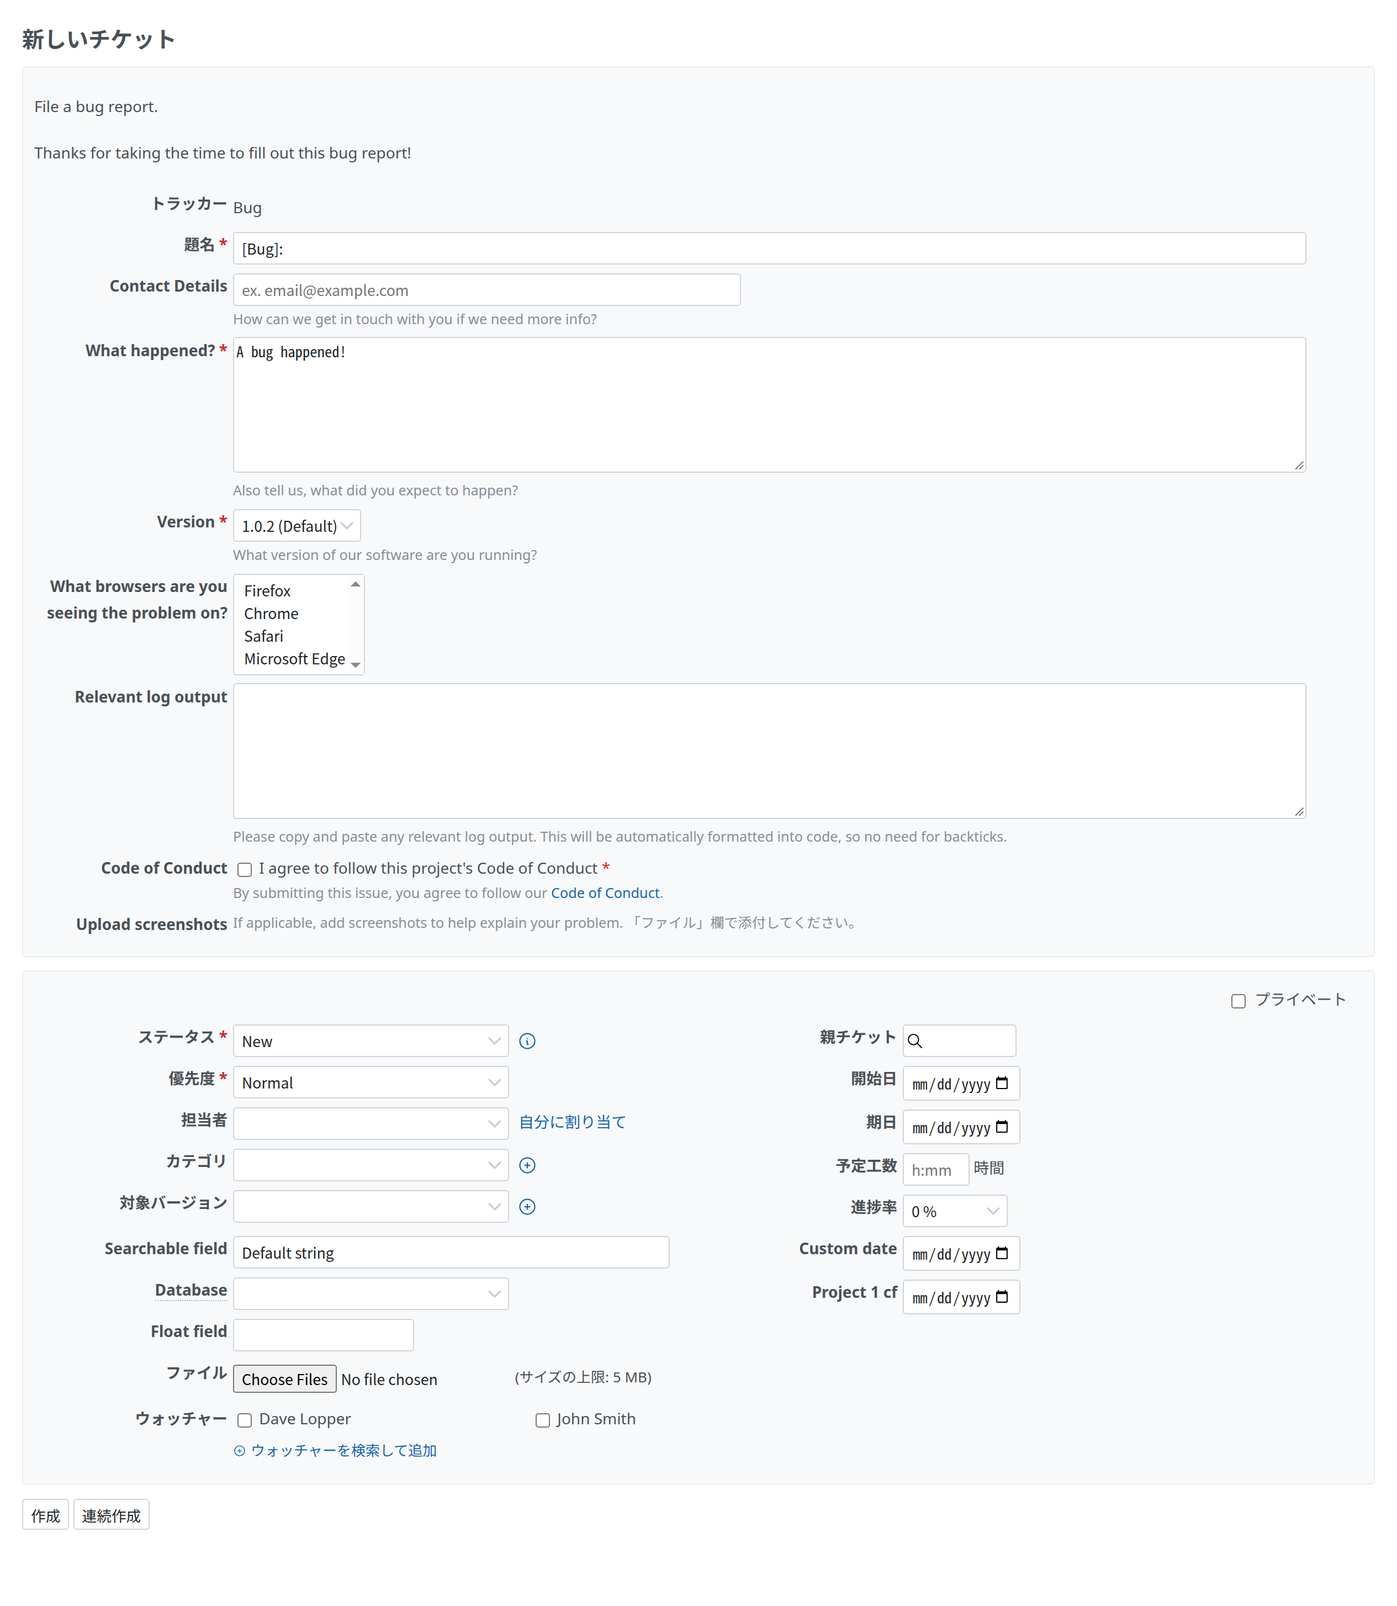
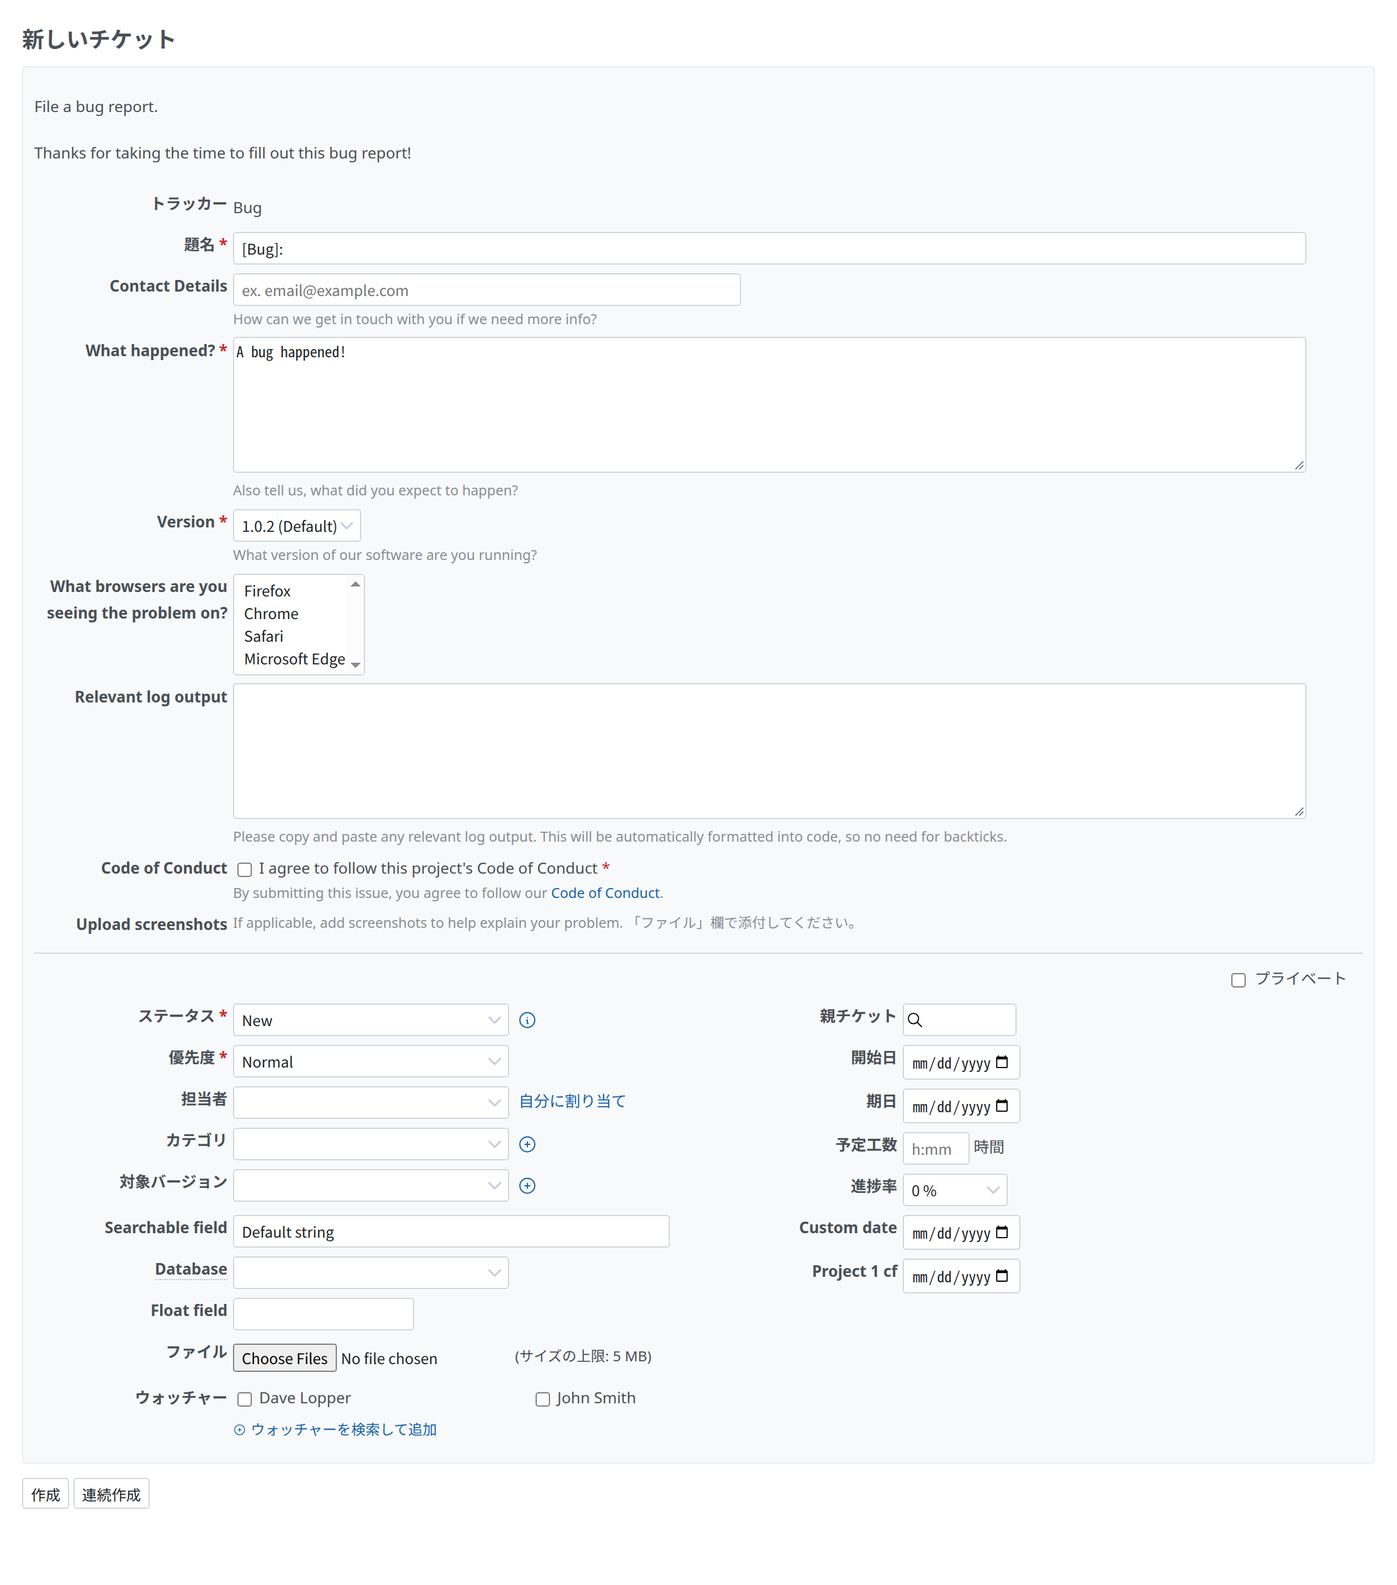
Render a YAML form's part inside Redmine's issue form

diff --git a/assets/stylesheets/issue_template.css b/assets/stylesheets/issue_template.css
@@ -1,5 +1,5 @@
-/* A form's subject is in the box above, so the attributes start below
-   Redmine's Private checkbox, floated at the top of the form. */
+/* A form's subject is in its part above Redmine's attributes, so the
+   attributes start below Redmine's Private checkbox, floated next to them. */
 #all_attributes #attributes {
   clear: both;
 }

diff --git a/test/functional/issues_controller_template_test.rb b/test/functional/issues_controller_template_test.rb
@@ -100,13 +100,13 @@ module RedmineIssueTemplate
     test 'an issue form shows its fields instead of the description' do
       get :new, params: { project_id: 'ecookbook', issue_template: 'bug_report' }
       assert_response :success
-      assert_select '.issue-template-fields p', text: /Tracker\s+Bug/
-      assert_select '#issue-form p', text: /Tracker/, count: 0
-      # The subject and the fields are in a box above Redmine's form, and
-      # belong to the form.
-      assert_select '#issue-form input#issue_subject', 0
-      assert_select '.issue-template-fields input#issue_subject[form=issue-form][value=?]', '[Bug]: '
-      assert_select '.issue-template-fields textarea[form=issue-form][name=?]', 'issue_template_answers[what-happened]'
+      # The form's part, at the top of Redmine's form: the tracker as text, the
+      # subject and the fields, once each.
+      assert_select '#issue-form .issue-template-fields p', text: /Tracker\s+Bug/
+      assert_select '#issue-form p', text: /Tracker\s+Bug/, count: 1
+      assert_select '#issue-form .issue-template-fields input#issue_subject[value=?]', '[Bug]: '
+      assert_select '#issue-form input#issue_subject', 1
+      assert_select '#issue-form .issue-template-fields textarea[name=?]', 'issue_template_answers[what-happened]'
       assert_select 'head link[rel=stylesheet][href^=?]', '/assets/plugin_assets/redmine_issue_template/issue_template-'
       assert_select 'textarea#issue_description', 0
       assert_select 'input[name=?]', 'issue_template_answers[contact]'
@@ -153,9 +153,9 @@ module RedmineIssueTemplate
                            form_update_triggered_by: 'issue_tracker_id', issue: { tracker_id: '3', subject: 'x' },
                            issue_template_answers: { 'contact' => 'me@example.com' } }, xhr: true
       assert_response :success
-      # The form's fields are outside the part Redmine updates.
-      assert_not_include 'issue_template_answers[contact]', response.body
-      assert_not_include 'issue[subject]', response.body
+      # The form's part is rendered again with what was typed.
+      assert_include 'issue_template_answers[contact]', response.body
+      assert_include 'me@example.com', response.body
     end
 
     test 'the project stays the one the template was chosen in' do
@@ -185,12 +185,11 @@ module RedmineIssueTemplate
       import('question.yml' => QUESTION)
       get :new, params: { project_id: 'ecookbook', issue_template: 'question' }
       assert_response :success
-      tracker = '.issue-template-fields select#issue_template_tracker_id[form=issue-form][onchange*=updateIssueFrom]'
-      assert_select tracker do
+      assert_select '.issue-template-fields select#issue_tracker_id[onchange*=updateIssueFrom]' do
         assert_select 'option', Issue.new(project: @project).allowed_target_trackers(User.find(2)).count
         assert_select 'option[selected=selected][value="1"]'
       end
-      assert_select '#issue-form select#issue_tracker_id', 0
+      assert_select '#issue-form select#issue_tracker_id', 1
 
       post :create, params: { project_id: 'ecookbook', issue_template: 'question',
                               issue: { tracker_id: '3', subject: 'How?' }, issue_template_answers: { 'what' => 'x' } }
@@ -298,7 +297,7 @@ module RedmineIssueTemplate
       import('question.yml' => QUESTION)
       Tracker.find(3).update!(private_by_default: true)
       post :new, params: { project_id: 'ecookbook', issue_template: 'question',
-                           form_update_triggered_by: 'issue_template_tracker_id',
+                           form_update_triggered_by: 'issue_tracker_id',
                            issue: { tracker_id: '3', is_private: '0', subject: 'x' } }, xhr: true
       assert_response :success
       assert @controller.instance_variable_get(:@issue).is_private?

diff --git a/lib/redmine_issue_template/issues_controller_patch.rb b/lib/redmine_issue_template/issues_controller_patch.rb
@@ -29,11 +29,6 @@ module RedmineIssueTemplate
     end
 
     def build_new_issue_from_params
-      # The box's tracker field is Redmine's tracker field (the private
-      # default of the chosen tracker applies).
-      if params[:form_update_triggered_by] == 'issue_template_tracker_id'
-        params[:form_update_triggered_by] = 'issue_tracker_id'
-      end
       template = current_issue_template
       if template
         issue_template_defaults_into_params(template) if request.get?

diff --git a/docs/ja/design.md b/docs/ja/design.md
@@ -99,7 +99,7 @@ Redmine は、説明をテキスト書式の設定で表示します。テンプ
 画面は Redmine 本体の画面に倣います([Redmine Design Guide](https://redmine-kit.github.io/design-guide/ja/))。
 
 - **テンプレート選択画面**(`/projects/<id>/issues/templates`): プロジェクトにテンプレートがあると、「新しいチケット」で開きます。Redmine の一覧と同じ表(`table.list`)に、テンプレートの名前(入力画面へのリンク)、説明、トラッカーを並べます。「空白のチケット」は、`blank_issues_enabled` が false でなければ、またテンプレートを管理できるユーザーには常に、アクションのリンクで出します。`contact_links` は「その他の連絡先」として 2 つ目の一覧にします。「新しいチケット」に付いてきたパラメーター(親チケットなど)は引き継ぎます。
-- **チケットの入力画面**: Redmine の入力画面に、テンプレートの値を入れたものです。YAML フォームの説明、トラッカー、題名、入力欄は、Redmine の入力画面の上のボックスに、入力画面の表の形で出します。隠す入力欄と、つないだ入力欄が値を入れる項目は Redmine のボックスに出さず、必須の入力欄には Redmine と同じ印を付けます。
+- **チケットの入力画面**: Redmine の入力画面に、テンプレートの値を入れたものです。YAML フォームの説明、トラッカー、題名、入力欄は、Redmine の入力画面の一番上(フック `view_issues_form_details_top`。フォームと一緒に描き直される)に、入力画面の表の形で、線で区切って出します。隠す入力欄と、つないだ入力欄が値を入れる項目はチケットの属性に出さず、必須の入力欄には Redmine と同じ印を付けます。
 - **プロジェクトの設定 › チケットテンプレート**: アクションのリンク「新しいテンプレート」(リポジトリにテンプレートがないとき)、「インポート」、「ヘルプ」(このドキュメントの形式のページ)。テンプレートの取得元、最後に取り込んだリビジョンと日時を、管理 › 情報 と同じ名前と値の表で出します。ファイルの一覧には正常かエラーかのアイコンを付け、リポジトリにテンプレートがなければここで編集、削除します。エラーのあるファイルがあれば、使用できないことだけを表示します。「テンプレートの選択画面」に config.yml の設定(空白のチケット、その他の連絡先)を出し、テンプレートを Redmine で編集しているときは保存すると config.yml にし、そうでなければ変更できない表示にします。エラーと警告の中身は各ファイルの画面に、ファイル、キー、Redmine の検証のメッセージで出します。
 - **テンプレートファイル**: 一覧のファイル名から、ファイルのページを開きます。取得元(管理 › 情報 と同じ形)と、ボックスの中のテキストを出します。「編集」と「削除」は、プロジェクトの設定のファイルにだけ出します。編集のフォームはテキストのエディター(`.box.tabular`、Wiki のページと同じテキストエリア)で、「保存」「プレビュー」「キャンセル」があります。
 - **プレビュー**: 凡例「プレビュー」のボックスの中に(チケットの編集画面が入力欄をまとめるのと同じ形)、選択画面でのテンプレートの行と、テンプレートを当てた Redmine の新しいチケットの入力画面(値、隠す入力欄、必須の入力欄、YAML フォームの入力欄)を、操作できない形(`inert`)で出します。編集のフォームの「プレビュー」は、同じ入力チェックのあと、保存せずに出します。リポジトリのファイルのページには常に出します。`config.yml` のプレビューは、すべてのテンプレートを並べた選択画面です。テンプレートのプレビューは Redmine にない画面なので、チケットの入力画面と一覧をそのまま使います。

diff --git a/docs/design.md b/docs/design.md
@@ -84,7 +84,7 @@ A file with errors is marked in the settings, with its errors on its page, and l
 The screens follow Redmine's own screens ([Redmine Design Guide](https://redmine-kit.github.io/design-guide/)).
 
 - **Template chooser** (`/projects/<id>/issues/templates`): "New issue" opens it when the project has templates. A list like Redmine's lists (`table.list`): the template's name (a link to the form), its description and its tracker. "Blank issue" is an action link, shown when `blank_issues_enabled` is not false, and always to users who can manage the templates. Contact links follow as a second list, "Other contacts". Parameters that came with "New issue" (for example a parent issue) are kept.
-- **Issue form**: Redmine's own form, with the template's values. A YAML form's description, tracker, subject and fields are in a box above Redmine's form, in the form's tabular layout. Hidden fields, and the fields set by linked fields, are left out of Redmine's box, and required ones are marked as Redmine marks them.
+- **Issue form**: Redmine's own form, with the template's values. A YAML form's description, tracker, subject and fields are at the top of Redmine's form (the hook `view_issues_form_details_top`, rendered again with the form), in its tabular layout, above a line. Hidden fields, and the fields set by linked fields, are left out of the issue's attributes, and required ones are marked as Redmine marks them.
 - **Project settings › Issue templates**: the action links "New template" (without templates in the repository), "Import" and "Help" (the format reference in these docs); where the templates come from, the revision and the time of the last import, as names and values like Administration › Information; the files with an ok or error icon, edited and deleted here when the repository has none; when some files have errors, a notice that they cannot be used; and the settings of config.yml under "Template chooser" (blank issues, other contacts), saved as config.yml when the templates are edited in Redmine and shown read-only otherwise. Each file's page shows its errors and warnings, each as the file, the key and Redmine's validation message.
 - **A template file**: the file name links to its page, with where it came from (as on Administration › Information) and its text in a box. "Edit" and "Delete" are there only for files of the project settings. The edit form is a plain text editor (`.box.tabular`, a textarea as on a wiki page) with "Save", "Preview" and "Cancel".
 - **Preview**: in a box with the legend "Preview" (as the issue edit page groups its fields), the template's row in the chooser and Redmine's New issue form as the template makes it (values, hidden and required fields, a YAML form's fields), shown but not usable (`inert`). "Preview" on the edit form shows it without saving, after the same input check; the page of a file from a repository always shows it. For `config.yml`, the preview is the chooser with all the templates. Core has no pattern for previewing a template, so this follows the issue form and the lists as they are.

diff --git a/AGENTS.md b/AGENTS.md
@@ -16,7 +16,7 @@ Redmine Issue Template (`redmine_issue_template`) is a Redmine plugin for issue 
 | `lib/redmine_issue_template/importer.rb`, `repository_source.rb`, `repository_patch.rb` | Importing and storing files (the entry point for redmine_github) |
 | `lib/redmine_issue_template/issue_patch.rb` (`issue_template_visibility`, the one place), `redmine_rules.rb`, `issue_template_defaults.rb`, `linked_field.rb`, `body_composer.rb` | What a template does to a new issue: hidden, preset, linked and required fields, the template's values, the description from the answers |
 | `lib/redmine_issue_template/issues_controller_patch.rb`, `issue_template_params.rb` | The chooser redirect, refusing issues without a template; the request's parameters (permitted answers, preset values, what the request can't set) |
-| `app/controllers/issue_templates_controller.rb`, `app/views/issue_templates/` | The chooser, the settings tab, the file pages, the form box above Redmine's form |
+| `app/controllers/issue_templates_controller.rb`, `app/views/issue_templates/` | The chooser, the settings tab, the file pages, a YAML form's part at the top of Redmine's form |
 | `app/helpers/issue_templates_helper.rb`, `issue_template_form_helper.rb` | The one Markdown helper and the fields' labels; the change to Redmine's `projects_for_select` |
 | `assets/stylesheets/issue_template.css` | The plugin's CSS, each rule with its reason |
 | `test/` | Unit (`unit/`, `helpers/`) and functional tests, `test/screenshots/` for the docs' images, `test/fixtures/github/` example templates |
@@ -39,8 +39,8 @@ Redmine Issue Template (`redmine_issue_template`) is a Redmine plugin for issue 
 
 ### Screens
 
-- **Redmine's own screens.** The chooser, the settings tab and the file pages follow Redmine's core screens (enumerations, project settings tabs, issue categories); the issue form stays Redmine's form, with a box above it for a YAML form's fields.
-- **No JavaScript of the plugin's own.** The box's fields join Redmine's form with the `form` attribute; the tracker field uses Redmine's `updateIssueFrom`.
+- **Redmine's own screens.** The chooser, the settings tab and the file pages follow Redmine's core screens (enumerations, project settings tabs, issue categories); the issue form stays Redmine's form, with a YAML form's part at its top (`view_issues_form_details_top`), which Redmine renders again on each update.
+- **No JavaScript of the plugin's own.** The tracker field uses Redmine's `updateIssueFrom`, as Redmine's own tracker field does.
 - **Text from templates** (descriptions, labels, options, contact links) is rendered through `issue_template_markdown` only, which uses Redmine's CommonMark formatter and turns images from other sites into links.
 
 ### Data

diff --git a/docs/ja/format.md b/docs/ja/format.md
@@ -42,7 +42,7 @@ assignees: ''
 
 YAML フォームは、`name`、`description`、`body` を持ちます。`title`、`labels`、`assignees`、`type`、`projects` も書けます。YAML フォームは説明の代わりに自分の入力欄を出し、チケットを作るときに、その回答を説明に書きます。
 
-「新しいチケット」の画面では、Redmine のフォームの上のボックスに、YAML フォームの `description`、先頭の `markdown` 要素、トラッカー、題名、入力欄が入ります。下の Redmine のボックスには、チケットのほかの属性、ファイル、ウォッチャーが入ります。次の例は GitHub のドキュメントからの引用です。
+「新しいチケット」の画面では、Redmine のフォームの一番上に、YAML フォームの `description`、先頭の `markdown` 要素、トラッカー、テンプレートで決めた値、題名、入力欄が入ります。線の下に、チケットのほかの属性、ファイル、ウォッチャーが続きます。トラッカーを変えるなどしてフォームが更新されると、Redmine はこの部分も、入力済みの回答と一緒に描き直します。次の例は GitHub のドキュメントからの引用です。
 
 ```yaml
 name: Bug Report
@@ -218,7 +218,7 @@ body:
       required: true
 ```
 
-![「Broken in version」と「Database」の入力欄が、対象バージョンとカスタムフィールドにつながったテンプレートの入力画面。下の Redmine のボックスには、その 2 つの項目がない](./images/issue-form-link.png)
+![「Broken in version」と「Database」の入力欄が、対象バージョンとカスタムフィールドにつながったテンプレートの入力画面。線の下のチケットの属性には、その 2 つの項目がない](./images/issue-form-link.png)
 
 | `link` | 入る項目 | 表示 |
 | --- | --- | --- |

diff --git a/docs/format.md b/docs/format.md
@@ -36,7 +36,7 @@ assignees: ''
 
 A YAML form has `name`, `description` and `body`, and optionally `title`, `labels`, `assignees`, `type` and `projects`. The form shows its fields in place of the description, and the answers become the description when the issue is created.
 
-On the "New issue" page, a box above Redmine's form holds the form: its `description`, the `markdown` elements it starts with, the tracker, the subject and the fields. Redmine's box below holds the issue's other attributes, the files and the watchers. This example is from GitHub's documentation:
+On the "New issue" page, the form's part comes first in Redmine's form: its `description`, the `markdown` elements it starts with, the tracker, the values the template sets, the subject and the fields. Below a line come the issue's other attributes, the files and the watchers. Redmine renders the part again when the form changes (another tracker), with the answers typed so far. This example is from GitHub's documentation:
 
 ```yaml
 name: Bug Report
@@ -198,7 +198,7 @@ body:
       required: true
 ```
 
-![The issue form of a template whose "Broken in version" and "Database" fields set the target version and the custom field: neither is in Redmine's box below](./images/issue-form-link.png)
+![The issue form of a template whose "Broken in version" and "Database" fields set the target version and the custom field: neither is among the issue's attributes below the line](./images/issue-form-link.png)
 
 | `link` | The field it sets | Shown as |
 | --- | --- | --- |

diff --git a/docs/README.md b/docs/README.md
@@ -19,9 +19,9 @@ The templates are files in the project's repository. Redmine reads the first of 
 
 ![The template chooser: three templates, the blank issue and two other contacts](./images/chooser.png)
 
-A YAML form shows its description, tracker, subject and fields in a box above Redmine's form. When the issue is created, the answers become the description, each under the field's label.
+A YAML form shows its description, tracker, subject and fields at the top of Redmine's form, above a line and the issue's other attributes. When the issue is created, the answers become the description, each under the field's label.
 
-![The issue form of the "Bug Report" template: its description, tracker, subject and fields in a box above Redmine's form](./images/issue-form.png)
+![The issue form of the "Bug Report" template: its description, tracker, subject and fields at the top of Redmine's form](./images/issue-form.png)
 
 The "Issue templates" tab of the project settings shows where the templates come from, the last import, the files (marked when they have errors; each file's page lists its errors and warnings), and the chooser's settings of config.yml.
 
